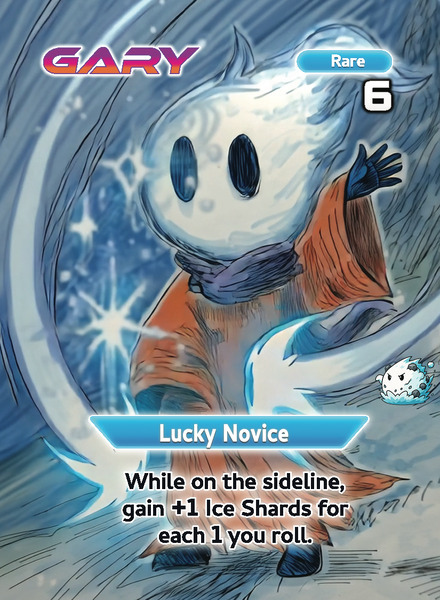
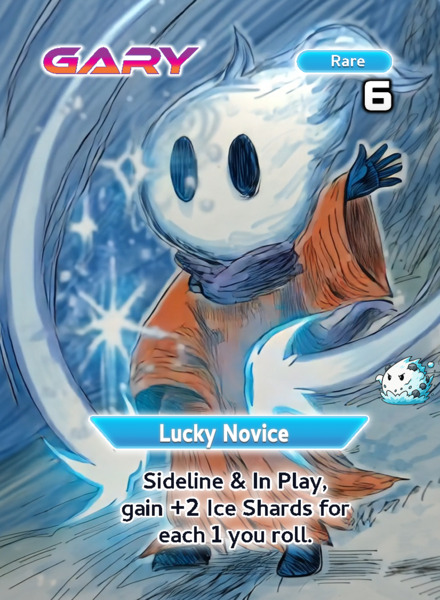
carddashboard: Gary v600 art + text; Haywire full card text parity
- Gary (92): new Photoshop card art (440x600 sRGB). abilityDesc
  updated to match physical: "Sideline & In Play, gain +2 Ice Shards
  for each 1 you roll." Reflects v598 mechanical buff (sideline + in
  play) and v599 balance buff (+2 per 1 rolled).
- Haywire (78): current card art synced with testroom. abilityDesc
  fixed to include the +2 permanent damage clause that was missing,
  and "or better" qualifier. Now reads: "Upon rolling triples or
  better: gain +1 permanent die. Haywire gains +2 permanent damage.
  Once Per Game."

Backups kept locally as gary-pre-v599.jpg and Haywire-pre-v600.png
(not committed).

diff --git a/carddashboard/index.html b/carddashboard/index.html
@@ -414,7 +414,7 @@ let spirits = [
   { id: 75, name: 'Flora', rarity: 'rare', maxHp: 4, ability: 'Restore', abilityDesc: 'Roll doubles: +2 HP after damage is applied.', category: 'HP Recovery' , set: 'Set 1', artist: 'Tyler Holman' },
   { id: 76, name: 'Dark Wing', rarity: 'rare', maxHp: 2, ability: 'Precision', abilityDesc: "Dark Wing may reroll dice if he doesn't roll doubles.", category: 'Dice Modifier' , set: 'Set 1', artist: 'Vince Watson' },
   { id: 77, name: 'City Cyboo', rarity: 'rare', maxHp: 1, ability: 'Barrier', abilityDesc: 'Takes no damage from Enemy Doubles.', category: 'Defense/Negation' , set: 'Set 1', artist: 'Val Wilkinson' },
-  { id: 78, name: 'Haywire', rarity: 'rare', maxHp: 7, ability: 'Wild Chords', abilityDesc: 'Upon rolling triples, gain +1 dice for the rest of the game. Once Per Game.', category: 'Dice Modifier' , set: 'Dark Castle', artist: 'Tyler Holman' },
+  { id: 78, name: 'Haywire', rarity: 'rare', maxHp: 7, ability: 'Wild Chords', abilityDesc: 'Upon rolling triples or better: gain +1 permanent die. Haywire gains +2 permanent damage. Once Per Game.', category: 'Dice Modifier' , set: 'Dark Castle', artist: 'Tyler Holman' },
   { id: 79, name: 'Laura', rarity: 'rare', maxHp: 4, ability: 'Catchy Tune', abilityDesc: 'While on the sideline, your rolls in numeric order gain +3 roll damage.', category: 'Damage Multiplier' , set: 'Dark Castle', artist: 'Tyler Holman' },
   { id: 80, name: 'Bilbo', rarity: 'rare', maxHp: 2, ability: 'Little Buddy', abilityDesc: 'While on the sideline, your ghost in play gains +2 damage if you roll singles.', category: 'Damage Multiplier' , set: 'Dark Castle', artist: 'Tyler Holman' },
   { id: 81, name: 'Spockles', rarity: 'rare', maxHp: 6, ability: 'Valley Magic', abilityDesc: 'Win a roll: gain 2 Ice Shards.', category: 'Resource Generation' , set: 'Frost Valley', artist: 'Egi Saputra' },
@@ -428,7 +428,7 @@ let spirits = [
   { id: 89, name: 'Mallow', rarity: 'rare', maxHp: 5, ability: 'Dozy Cozy', abilityDesc: 'While on the sideline, before rolling you may remove a Sacred Fire to give your Ghost in Play 3 Health.', category: 'HP Recovery' , set: 'Frost Valley', artist: 'Ipunk Herlambang' },
   { id: 90, name: 'Jeanie', rarity: 'rare', maxHp: 4, ability: 'Hidden Treasure', abilityDesc: 'While on the sideline, you may force the opponent to reroll all their dice. Once Per Game.', category: 'Dice Modifier' , set: 'Frost Valley', artist: 'Annabelle Morris' },
   { id: 91, name: 'Calvin & Anna', rarity: 'rare', maxHp: 6, ability: 'Toboggan', abilityDesc: 'When you defeat a Ghost, you may switch Calvin & Anna with a ghost from your sideline after the opponent chooses their next ghost.', category: 'Prediction/Reaction' , set: 'Frost Valley', artist: 'Kyle Fleming' },
-  { id: 92, name: 'Gary', rarity: 'rare', maxHp: 6, ability: 'Lucky Novice', abilityDesc: 'While on the sideline, gain +1 Ice Shards for each 1 you roll.', category: 'Resource Generation' , set: 'Frost Valley', artist: 'Wyatt Gable' },
+  { id: 92, name: 'Gary', rarity: 'rare', maxHp: 6, ability: 'Lucky Novice', abilityDesc: 'Sideline & In Play, gain +2 Ice Shards for each 1 you roll.', category: 'Resource Generation' , set: 'Frost Valley', artist: 'Wyatt Gable' },
   { id: 93, name: 'Bandit Pete', rarity: 'rare', maxHp: 5, ability: 'Bandit', abilityDesc: 'While on the Sideline, if either player rolls only 2 dice, your ghost in play gains +3 Damage.', category: 'Damage Multiplier' , set: 'Frost Valley', artist: 'Michael Zhang' },
 
   // ========== GHOST-RARE (14) ==========
